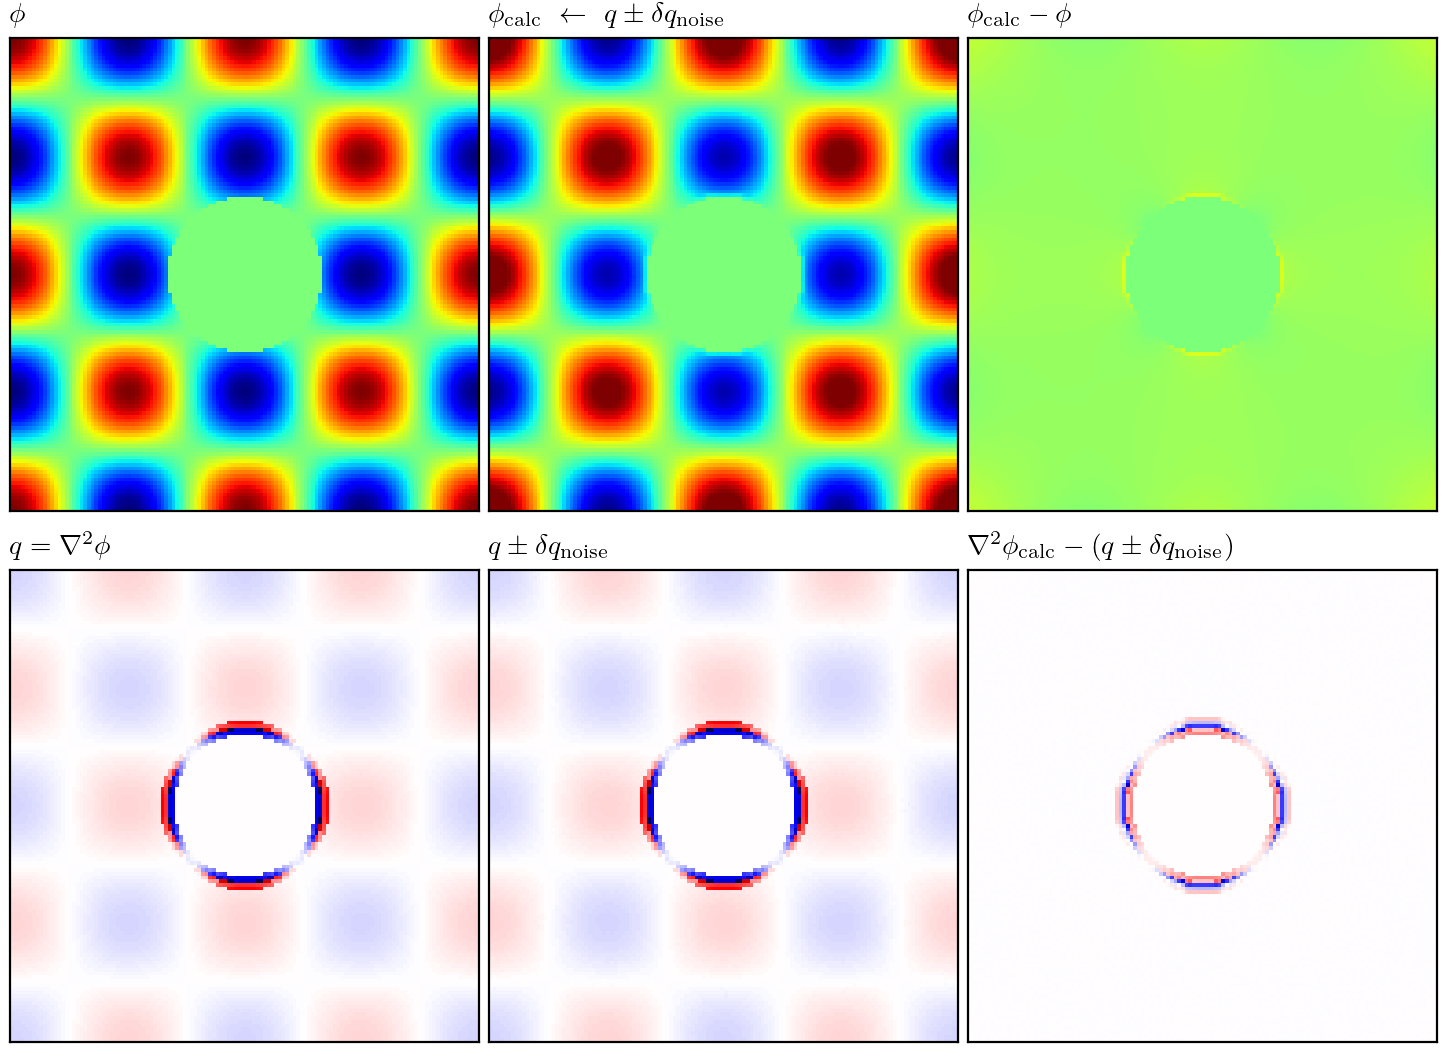
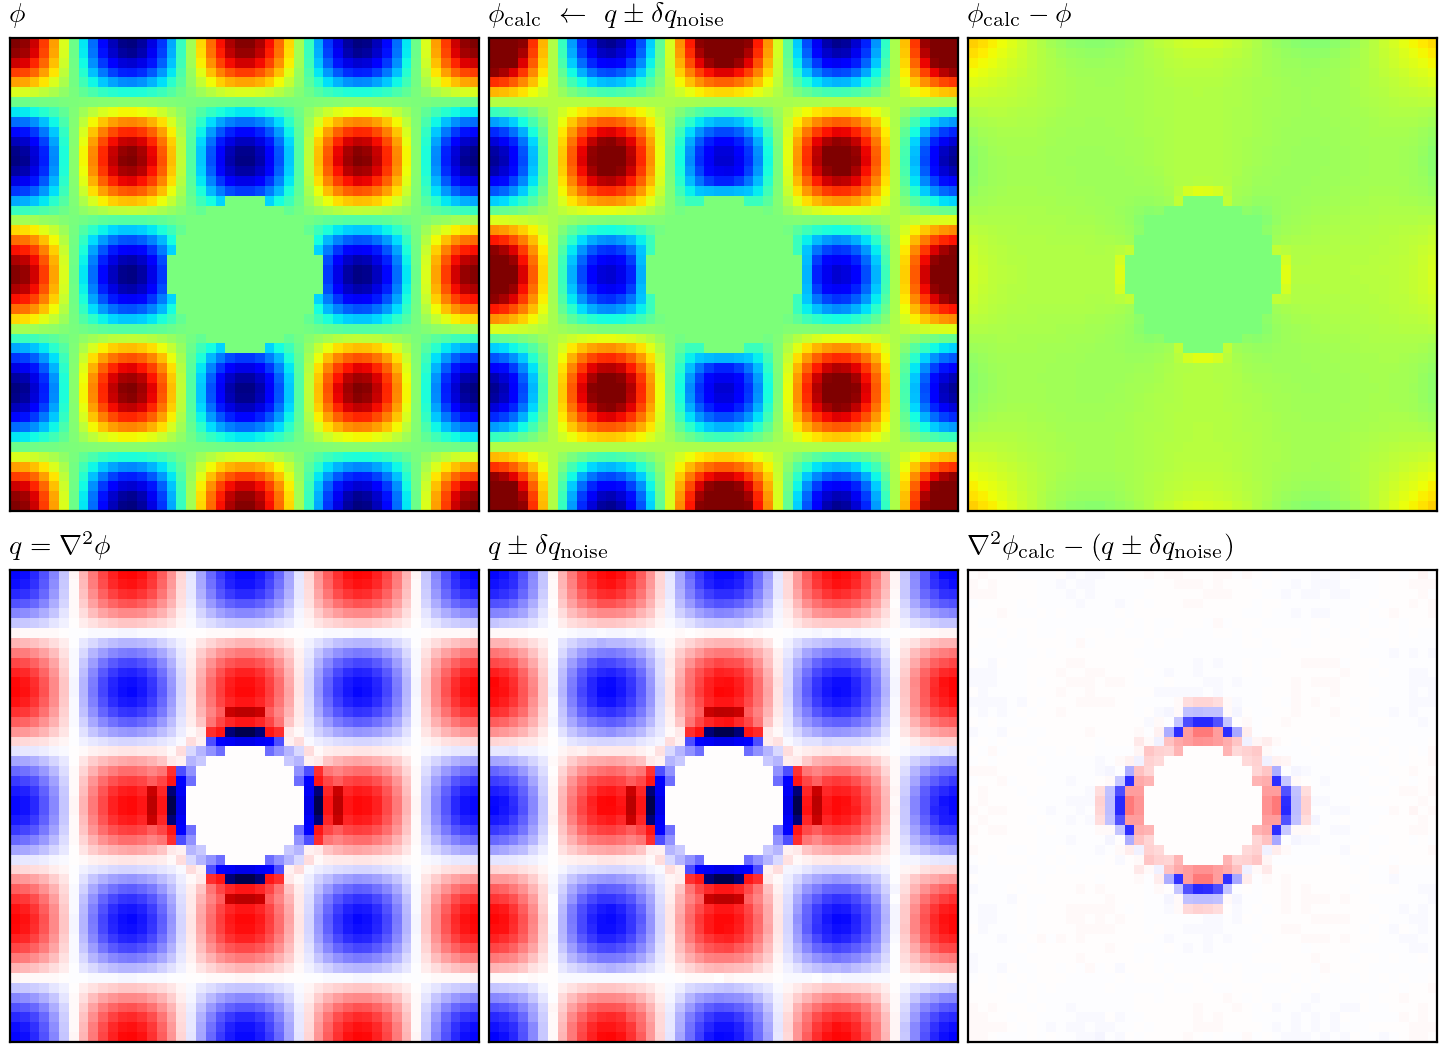
modified:   ../docs/imgs/poisson_eq_example.png 	modified:   ../docs/imgs/umap_example.png 	modified:   test_poisson_eq.py 	modified:   ../src/common/poisson_eq.hxx

diff --git a/examples/test_poisson_eq.py b/examples/test_poisson_eq.py
@@ -85,7 +85,7 @@ def main(args):
 	
 	ltp.load_backend("default")
 	
-	n = 127
+	n = 47
 	
 	lx,ly = 2,2
 	nx,ny = n,n
